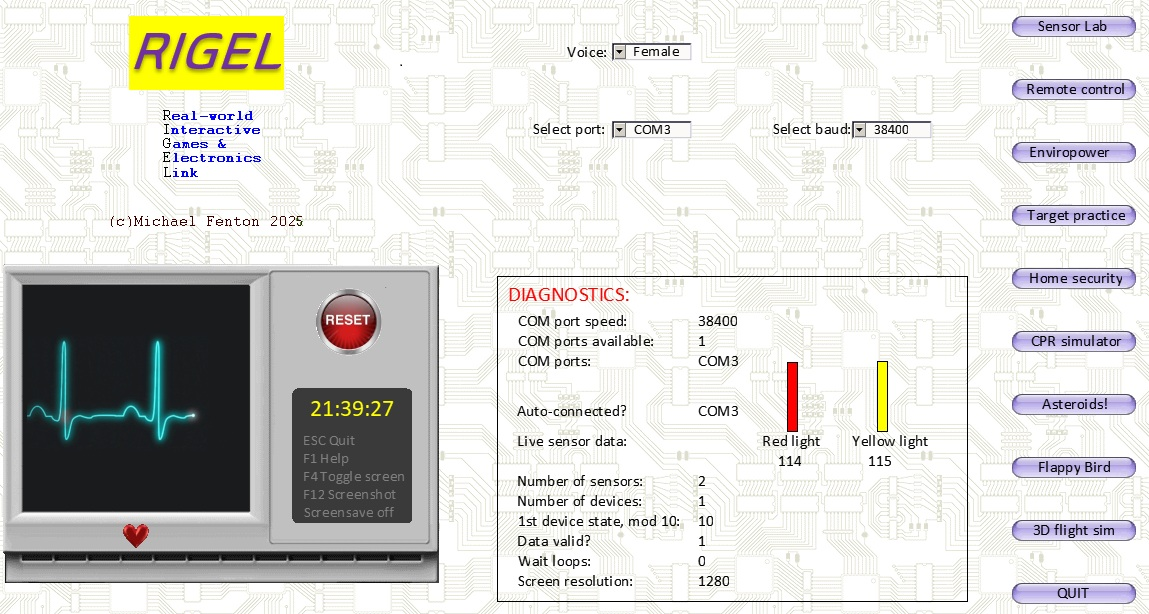
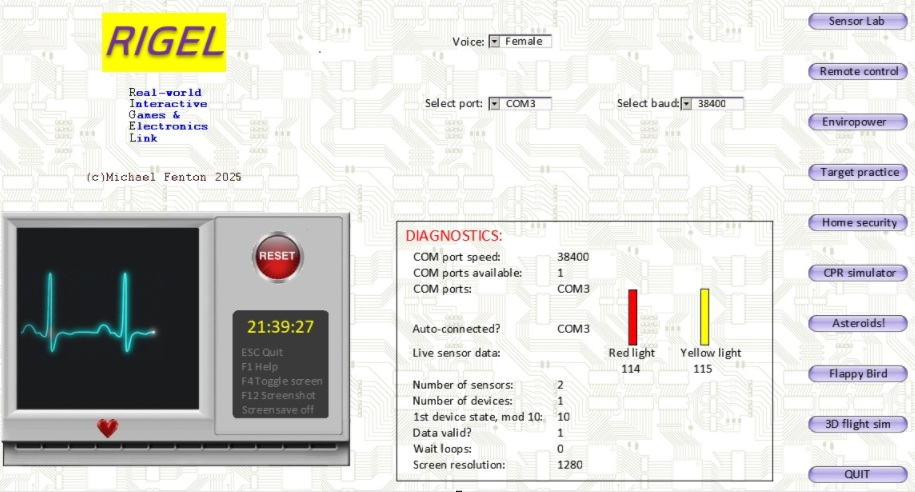
updates

diff --git a/projects/digital-multimeters-as-dataloggers.html b/projects/digital-multimeters-as-dataloggers.html
@@ -104,7 +104,7 @@
 	<h3 id="build-it">Build it</h3>
 	<p>Under-confident teachers and students were found to be confused by the markings on the digital multimeters. Two strategies were employed that seemed to overcome this. Firstly, a plastic cover was cut and placed over the central dial to cover distracting labels on the meter. An erasable marker was used to label the dial setting as ‘heat’ or ‘light’ or ‘salt’, etc. This aided the second strategy which was to remind students each time that we treat the meter as a ‘what does it measure today?’ machine.</p>
 <p>For safety reasons, as well as the ability to quickly change sensors, an electrical terminal block was fitted to the DMM probes. The probes that come with the meters had pointed ends that could cause injury if used improperly. In the trial only single component sensors were used. Some components must be inserted ‘the right way around’, such as light emitting diodes (LED’s) and signal diodes. It was a simple matter to remind students that if the display does not give an appropriate reading, just insert the sensor the other way around. </p>
-<img src="../assets/img/digital-multimeter-built-it.jpg" alt="Digital multimeter data logger assembly" width="400" height="400" />
+<img src="../assets/img/digital-multimeter-built-it.jpg" alt="Digital multimeter data logger assembly" width="400" />
 <p> </p>
 <blockquote><span lang="en">"<strong>'Build it'</strong> Digital multimeter data logger assembly. Meter lead tips are fitted into a terminal block with a LED functioning as a visible light sensor fitted to the other side of the block. The dial cover is in place. The dial setting is to 200mV range.</span></blockquote>
 	<h3 id="test-it">Test it</h3>
@@ -122,7 +122,7 @@
 
 <p>When analysing the data and discussing the activities, there were plenty of opportunities for students to learn about calibrating sensors, such as the temperature and angle sensors. When activities were based on surveys or mapping, students talked about the need to take more than one measurement to get an average reading.</p>
 
-<img src="../assets/img/digital-multimeter-angle-sensor.jpg" alt="'Test It' activity - angle sensor" width="400" height="400" />
+<img src="../assets/img/digital-multimeter-angle-sensor.jpg" alt="'Test It' activity - angle sensor" width="500" />
 <p> </p>
 <blockquote><span lang="en">"<strong>'Test it'</strong> digital multimeter angle sensor. Students calibrate the sensor plotting a simple line graph. The change in resistance of a volume control dial functions as an angle sensor.</span></blockquote>
 	<h3 id="use-it">Use it</h3>
@@ -130,55 +130,70 @@
 </p>
 	<h4 id="authentic-learning-at-school-and-home">Authentic cross-curricula learning at school and home</h4>
 	<p>In general the devices enabled students to sense more of the world around them. Students could sense things they could not see or touch themselves, and this raised their curiosity and interest. Collecting real data was exciting, and the data they collected had real-world consequences for them. Taking the multimeters out of the classroom permits learners to survey the school grounds, survey parks, and investigate their homes. Engaging with their own data, collected using equipment they built and understood, was shown to supported authentic learning, permit real-world problem solving, and enabled most students to reach the relational stage or higher on the SOLO taxonomy (Hattie and Brown, 2004). Students also used the f-word. They reported they had fun!</p>
+<div class="warning-box">
+  <p><strong>Warning: DO NOT let students test boiling water or live electrical outlets!</strong> </p>
+</div>
+<p>There is no need to calibrate temperature sensors using boiling water. Where in the real world would a student expect to record that temperature? For some reason teachers default to using ice and boiling water to calibrate sensors. If you are investigating cooling curves, YOU should safely get sensor readings at 100 &degC and PROVIDE THIS to learners.</p>
+<p>Always remind learners that scientists work carefully and safely, no matter what they see in movies or TV!</p>
 	<blockquote><span lang="en"><a href="../files/michael-fenton-angle-sensor-investigation.pdf" target="_blank">Download a student activity [PDF]</a></span></blockquote>
-
 	<h4 id="making-diy-home-made-sensors">Making low cost DIY home-made sensors</h4>
 	<p>Since the early 2000's Michael has developed a number of sensors; some are shown on his YouTube channel. Some sensors are very simple single component sensors costing a few cents. Other sensors are inexpensive but include a power source and a few more components. Apart from the straightforward voltage, current and resistance measurements, the multi-meters can also detect; visible light, infra-red light, ultra-violet light, ionising radiation such as alpha particles, temperature, angle, bend, salt, humidity, pressure, touch, paper thickness, mobile phone transmissions, static electric fields, and more.</p>
-
 	<blockquote><span lang="en"><a href="../files/michael-fenton-using-digital-multimeters.pdf" target="_blank">Download a workshop presentation [PDF]</a></span></blockquote>
-<p>In this video Michael imagines equitable access to authentic learning tools if his digital multimeter kit is added to a learners school stationery supply. Green School Educators Programme, Teaching for sustainability: wall-less teaching draft video</p>
-<iframe width="370" height="370"
-        src="https://www.youtube.com//embed/WK13ocHyJAk"
-        title="5 minute sales pitch - using digital multimeters for cross-curricula STEM learning at home."
+<p>In this video Michael imagines equitable access to authentic learning tools if his digital multimeter kit is added to a learners school stationery supply. Green School Educators Programme, Teaching for sustainability: wall-less teaching.</p>
+<div class="video-container">
+<iframe 
+        src="https://www.youtube.com//embed/LwZzSn9vZms"
+        title="Sales pitch - using digital multimeters for cross-curricula STEM learning at home."
         allow="accelerometer; autoplay; clipboard-write; encrypted-media; gyroscope; picture-in-picture"
         allowfullscreen>
 </iframe>
+</div>
 	<h3 id="presentations">YouTube videos</h3>
 	<p>Michael has documented the simple assembly process and working principles in YouTube videos. He demonstrates the use of a terminal block to attach sensors to a digital multimeter. The markings around the dial are hidden using a plastic cover and the 'yellow boxes' become simply a heat sensor, or a light sensor, depending on the label written in marker. This focuses students attenttion to the readings until they become expert users and understand the different settings.</p>
-<iframe width="370" height="370"
+<div class="video-container">
+<iframe 
         src="https://www.youtube.com/embed/qccXDdQrPfI?rel=0"
         title="Digital multimeter heat sensor"
         allow="accelerometer; autoplay; clipboard-write; encrypted-media; gyroscope; picture-in-picture"
         allowfullscreen>
 </iframe>
+</div>
 <p></p>
-<iframe width="370" height="370"
+<div class="video-container">
+<iframe 
         src="https://www.youtube.com/embed/Lx7_HHxRH-s"
         title="Digital multimeter LED light sensor"
         allow="accelerometer; autoplay; clipboard-write; encrypted-media; gyroscope; picture-in-picture"
         allowfullscreen>
 </iframe>
+</div>
 <p></p>
-<iframe width="370" height="370"
+<div class="video-container">
+<iframe 
         src="https://www.youtube.com/embed/uRymEI3nO2g?rel=0"
         title="Digital multimeter angle sensor"
         allow="accelerometer; autoplay; clipboard-write; encrypted-media; gyroscope; picture-in-picture"
         allowfullscreen>
 </iframe>
+</div
 <p></p>
-<iframe width="370" height="370"
+<div class="video-container">
+<iframe 
         src="https://www.youtube.com/embed/kSPDjAhl1Qc?rel=0"
         title="Digital multimeter salt sensor"
         allow="accelerometer; autoplay; clipboard-write; encrypted-media; gyroscope; picture-in-picture"
         allowfullscreen>
 </iframe>
+</div>
 <p></p>
-<iframe width="370" height="370"
+<div class="video-container">
+<iframe  
         src="https://www.youtube.com/embed/tEDIJp42vrQ?rel=0"
         title="Digital multimeter cell phone sensor"
         allow="accelerometer; autoplay; clipboard-write; encrypted-media; gyroscope; picture-in-picture"
         allowfullscreen>
 </iframe>
+</div>
       <h3>Back to Projects/Research</h3>
 	<p><a href="../projects.html" class="button" aria-label="See projects and research by Michael Fenton">Back to Projects</a></p>
     </main>

diff --git a/projects/rigel-games-electronics-link.html b/projects/rigel-games-electronics-link.html
@@ -104,12 +104,12 @@ Similarly, this is where RIGEL, a digital technology, can be used to observe pat
 	</section>
 	<h3 id="build-it">Build it</h3>
 	<p>RIGEL is coded in game design software that beginners can code using 'drag and drop' blocks. Instead of a game, sensor inputs replace mouse and keyboard events, making the game behave as a science sensor user interface and data plotter/recorder. RIGEL is a real-world interface connecting students into a virtual game world; 2D or 3D! This open-ended design, where different game levels were different displays (e.g., a science lab sensor readout, a 3D flight simulator, or a home security system) reminded students that RIGEL was a ‘what does it measure and display today?’ machine.</p>
-</p>RIGEL uses Picaxe sensor units that can have up to 8 sensors and 8 output devices (e.g., motors, switches, lights). A USB-to-serial cable provides bi-directional high speed commuication using a simple but compact data package protocol of Michael's design. The game software simply interprets data as game control inputs.</p> 
+</p>RIGEL uses Picaxe sensor units that can have up to 8 sensors and 8 output devices (e.g., motors, switches, lights). A USB-to-serial cable provides bi-directional high speed communication using a simple but compact data package protocol of Michael's design. The game software simply interprets data as game control inputs.</p> 
 	<blockquote><span lang="en"><a href="../files/michael-fenton-microsoft-rigel-slides.pdf" target="_blank">Download the Microsoft Conference presentation [PDF]</a></span></blockquote>
-<img src="../assets/img/editor_example.png" alt="Game Maker game design software" width="400" height="400" />
+<img src="../assets/img/editor_example.png" alt="Game Maker game design software">
 <p> </p>
 <blockquote><span lang="en">"<strong>'Build it'</strong> Easily accessible game design software quickly creates a graphical user interface for a gamified science lab. Science sensor data is interpreted as keyboard or mouse input. Instead of a player, dials or data points move.</span></blockquote>
-<img src="../assets/img/michael-fenton-rigel.jpg" alt="RIGEL menu screen" width="400" height="400" />
+<img src="../assets/img/michael-fenton-rigel.jpg" alt="RIGEL menu screen" />
 <blockquote><span lang="en">"RIGEL main menu screen. Display and record sensor data in the Science Lab, or practice CPR, or play a game that requires physical activity!</span></blockquote>
 	<h3 id="test-it">Test it</h3>
 	<p>Here is where Art meets Science and Technology. Students are taught to use the game software, and consider colour use, shapes, sizes and language. Object-oriented programming is tested to make sure everything works as expected. A fun first activity is a 2D platform or maze game. What music should it have for what kind of feeling? What sound effects work best? How do you create original artwork? In what style? This built up their confidence and provided some prior knowledge before embarking on their own investigations using the more advanced RIGEL software created by Michael. A typical introductory worksheet had three stages;
@@ -128,23 +128,32 @@ Similarly, this is where RIGEL, a digital technology, can be used to observe pat
 <p>Learners came up with their own creative and authentic uses for a system such as RIGEL. This activity provided a low floor, high ceiling task at low cost with wide connections to many different learning areas and subjects. Learners were able to remotely monitor or activate equipment, monitor alarms and create a simple security system, monitor and record respiration and heartbeat, practice CPR, and link a player remotely to games on a computer or 3D games projected into a room.</p>
 	<h4 id="authentic-learning-at-school-and-home">Authentic cross-curricula learning at school and home</h4>
 	<p>In general the RIGEL system enabled students to sense more of the world around them. It encouraged learners to get more physically active as they experimented with bicycles, hopping, and dancing to control characters in games they created. They experienced the art, imagination and creativity that is often overlooked in traditional science activities. Students could try and fail. Failure was a learning experience. Students also used the f-word. They reported they had fun!</p>
-<iframe width="370" height="370"
-        src="https://www.youtube.com/embed/qjyM-8RGvW4"
+<div class="video-container">
+<iframe 
+        src="https://www.youtube.com/embed/mOstMwpkIpA"
         title="RIGEL 2D and 3D games link"
         allow="accelerometer; autoplay; clipboard-write; encrypted-media; gyroscope; picture-in-picture"
         allowfullscreen>
 </iframe>
+</div>
 	<h4 id="making-diy-home-made-sensors">Making low cost DIY home-made sensors</h4>
 	<p>Since the early 2000's Michael has developed a number of sensors; some are shown on his YouTube channel. Some sensors are very simple single component sensors costing a few cents. Other sensors are inexpensive but include a power source and a few more components. Apart from the straightforward voltage, current and resistance measurements, the multi-meters can also detect; visible light, infra-red light, ultra-violet light, ionising radiation such as alpha particles, temperature, angle, bend, salt, humidity, pressure, touch, paper thickness, mobile phone transmissions, static electric fields, and more.</p>
 <p>All of these sensors can be used in the RIGEL game and electronics link, to control game players or be displayed and recorded.  
+<div class="warning-box">
+  <p><strong>Warning: DO NOT let students test boiling water or live electrical outlets!</strong> </p>
+</div>
+<p>There is no need to calibrate temperature sensors using boiling water. Where in the real world would a student expect to record that temperature? For some reason teachers default to using ice and boiling water to calibrate sensors. If you are investigating cooling curves, YOU should safely get sensor readings at 100 &degC and PROVIDE THIS to learners.</p>
+<p>Always remind learners that scientists work carefully and safely, no matter what they see in movies or TV!</p>
 	<h3 id="presentations">YouTube videos</h3>
 	<p>Michael has documented many of his projects in YouTube videos. Here is the 3D flight simulator. Helping to get students physically fit while inside playing computer games!</p>
-<iframe width="370" height="370"
+<div class="video-container">
+<iframe 
         src="https://www.youtube.com/embed/uVj9vByCHW4"
         title="RIGEL 2D and 3D games link"
         allow="accelerometer; autoplay; clipboard-write; encrypted-media; gyroscope; picture-in-picture"
         allowfullscreen>
 </iframe>
+</div
       <h3>Back to Projects/Research</h3>
 	<p><a href="../projects.html" class="button" aria-label="See projects and research by Michael Fenton">Back to Projects</a></p>
     </main>

diff --git a/projects/casio-calculator-picaxe-sensors.html b/projects/casio-calculator-picaxe-sensors.html
@@ -102,7 +102,7 @@
 </p>
           <ul>
             <li><strong>Build a sensor</strong> - a ‘howto’ description for using the picaxe sensor unit and setting up the Casio FX-9750 calculator.</li>
-            <li><strong>Test your sensor</strong> - an activity already tested by the teacher to demonstrate the equipment has been assembled correctly and is performing as expected. With senior classes in maths or science, it was expected some sensors would need calibrating, a useful additional skill.</li>
+            <li><strong>Test your sensor</strong> - an activity already tested by the teacher to demonstrate the equipment has been assembled correctly and is performing as expected. With senior classes in maths or science, it was expected some sensors would need calibrating, a useful additional skill. A Calulus class was given a CSI scenario requiring a cooling curve to determine time death.</li>
 	    <li><strong>Use your sensor</strong> - students invented their own authentic activity to replace a contrived NCEA task of little relevance or interest to them. Gamification and simulation made for much more engaging summative assessment.</li>
           </ul>
 
@@ -113,12 +113,18 @@
 <blockquote><span lang="en">"<strong>'Test it'</strong> Receiving sensor data from a Picaxe sensor unit into the Casio FX-9750 as a list.</span></blockquote>
 <img src="../assets/img/casio-picaxe-graphed-data.jpg" alt="'Test It' activity - plotting data from a Picaxe sensor unit." width="300" height="300" />
 <blockquote><span lang="en">"<strong>'Test it'</strong> plotting data from a Picaxe sensor unit.</span></blockquote>
-<img src="../assets/img/casio-picaxe-temperature-calibration.png" alt="'Test It' activity - calibrating a temperature sensor in cooling water." width="300" height="300" />
+<img src="../assets/img/casio-picaxe-temperature-calibration.png" alt="'Test It' activity - calibrating a temperature sensor in cooling water." />
 <p> </p>
 <blockquote><span lang="en">"<strong>'Test it'</strong> calibrating a temperature sensor in cooling water.</span></blockquote>
 <p></p>
+
+<div class="warning-box">
+ <p><strong>Warning: DO NOT let students test boiling water or live electrical outlets!</strong> </p>
+</div>
+<p>There is no need to calibrate temperature sensors using boiling water. Where in the real world would a student expect to record that temperature? For some reason teachers default to using ice and boiling water to calibrate sensors. If you are investigating cooling curves, YOU should safely get sensor readings at 100 &degC and PROVIDE THIS to learners.</p>
+<br>
 	<h3 id="use-it">Use it</h3>
-<img src="../assets/img/casio-picaxe-mission-to-mars.jpg" alt="'Uee It' activity - Engineers problem-solving a prototype Mars Orbiter to scan the surface of Mars." width="300" height="300" />
+<img src="../assets/img/casio-picaxe-mission-to-mars.jpg" alt="'Uee It' activity - Engineers problem-solving a prototype Mars Orbiter to scan the surface of Mars.">
 	<h4 id="authentic-learning-at-school-and-home">Authentic cross-curricula learning at school and home</h4>
 	<p>The Calculus students trialing this tool were preparing for an external summative assessment on the topic of “Integrate functions and
 use integrals to solve problems”. This includes using Simpson’s rule. Demonstrating the required skills through a student-led case-based inquiry raised their curiosity, their interest, and their own expectations for what a successful outcome should look like. It was more than just maths. Collecting real data was exciting; they were engineers prototyping a space vehicle and its sensors for a mission to Mars. The real-world data collected had off-world conseqences for them. Important soft skills such as perserverance and creativity were shown, enabling all students to reach the extended abstract level on the SOLO taxonomy (Hattie and Brown, 2004). Many concepts in senior Physics were part of discussions. Students also used the f-word. They reported they had fun!</p>
@@ -127,14 +133,20 @@ use integrals to solve problems”. This includes using Simpson’s rule. Demons
 	<h4 id="making-diy-home-made-sensors">Making low cost DIY home-made sensors</h4>
 	<p>Since the early 2000's Michael has developed a number of sensors; some are shown on his YouTube channel. Some sensors are very simple single component sensors costing a few cents. Other sensors are inexpensive but include a power source and a few more components. Apart from the straightforward voltage, current and resistance measurements, the multi-meters can also detect; visible light, infra-red light, ultra-violet light, ionising radiation such as alpha particles, temperature, angle, bend, salt, humidity, pressure, touch, paper thickness, mobile phone transmissions, static electric fields, and more.</p>
 <p>All of these sensors can be connected to a Casio graphic calculator using a low-cost ($6) Picaxe microcontroller.</p>
+<div class="warning-box">
+  <p><strong>Warning: DO NOT let students test boiling water or live electrical outlets!</strong> </p>
+</div>
+<p>Always remind learners that scientists work carefully and safely, no matter what they see in movies or TV!</p>
 	<h3 id="presentations">YouTube videos</h3>
 	<p>Michael has documented many of his do-it-yourself, low-cost sensors and science equipment in YouTube videos. Casi was a Picaxe controlled tracked robot that was driven remotely using a Casio FX-9750 graphic calculator connected to a Picaxe 08M2 interface unit. Casi, sadly, no longer exists.</p>
-<iframe width="370" height="370"
+<div class="video-container">
+<iframe 
         src="https://www.youtube.com/embed/MnuDkM_8Cdg"
         title="Digital multimeter heat sensor"
         allow="accelerometer; autoplay; clipboard-write; encrypted-media; gyroscope; picture-in-picture"
         allowfullscreen>
 </iframe>
+</div>
       <h3>Back to Projects/Research</h3>
 	<p><a href="../projects.html" class="button" aria-label="See projects and research by Michael Fenton">Back to Projects</a></p>
     </main>

diff --git a/assets/css/style.css b/assets/css/style.css
@@ -1,5 +1,5 @@
 /* ===============================
-   Academic Portfolio — GitHub Pages Build (Dark Mode + A11y + SEO)
+   Academic Portfolio — GitHub Pages Build (Dark Mode + A11y + SEO + Scaled images + Scaled embedded YouTube videos)
    =============================== */
 
 :root {
@@ -103,6 +103,57 @@ li{margin:.35rem 0}
 
 /* Blockquotes */
 blockquote{margin:1rem 0;padding:.75rem 1rem .75rem 1rem;border-left:4px solid var(--quote);background:color-mix(in oklab,var(--quote) 8%,transparent);border-radius:.5rem;font-style:italic}
+
+/* Warning Box Style */
+.warning-box {
+  margin: 1.5rem auto;
+  padding: 1rem 1.5rem;
+  border-radius: 4px;
+  
+  /* --- Light Mode (Default) --- */
+  border-left: 5px solid #d9534f;     /* A medium red border */
+  background-color: #fdf7f7;        /* A very light, almost white, red */
+  color: #f2190a;                   /* A dark, desaturated red for text */
+}
+
+.warning-box p:last-child {
+  margin-bottom: 0; /* Removes extra space at the bottom of the box */
+}
+
+/* --- Dark Mode Override --- */
+[data-theme="dark"] .warning-box {
+  border-left-color: #ff8a80;      /* A brighter red for dark backgrounds */
+  background-color: #6e1f19;      /* A dark, muted red background */
+  color: #ffcdd2;                 /* A light, soft red for readable text */
+}
+
+
+/* Scaled images */
+.page__content img {
+  width: 100%;      /* Makes the image responsive, filling its container */
+  max-width: 600px; /* Caps the maximum width at 600px */
+  height: auto;     /* Maintains the aspect ratio to prevent distortion */
+  display: block;   /* Removes extra space below the image */
+  margin: 1.5rem auto; /* Centers the image and adds vertical spacing */
+}
+
+/* Scaled YouTube videos */
+.video-container {
+  position: relative;
+  overflow: hidden;
+  width: 100%;
+  padding-top: 56.25%; /* 16:9 Aspect Ratio */
+  margin: 1.5rem auto; /* Optional: centers the container */
+}
+
+.video-container iframe {
+  position: absolute;
+  top: 0;
+  left: 0;
+  width: 100%;
+  height: 100%;
+  border: 0;
+}
 
 /* Cards */
 .card{background:linear-gradient(180deg,color-mix(in oklab,var(--bg-soft) 90%,transparent),var(--bg-soft));border:1px solid var(--border);border-radius:var(--radius);box-shadow:var(--shadow-sm);padding:1rem;margin-bottom:1rem}
